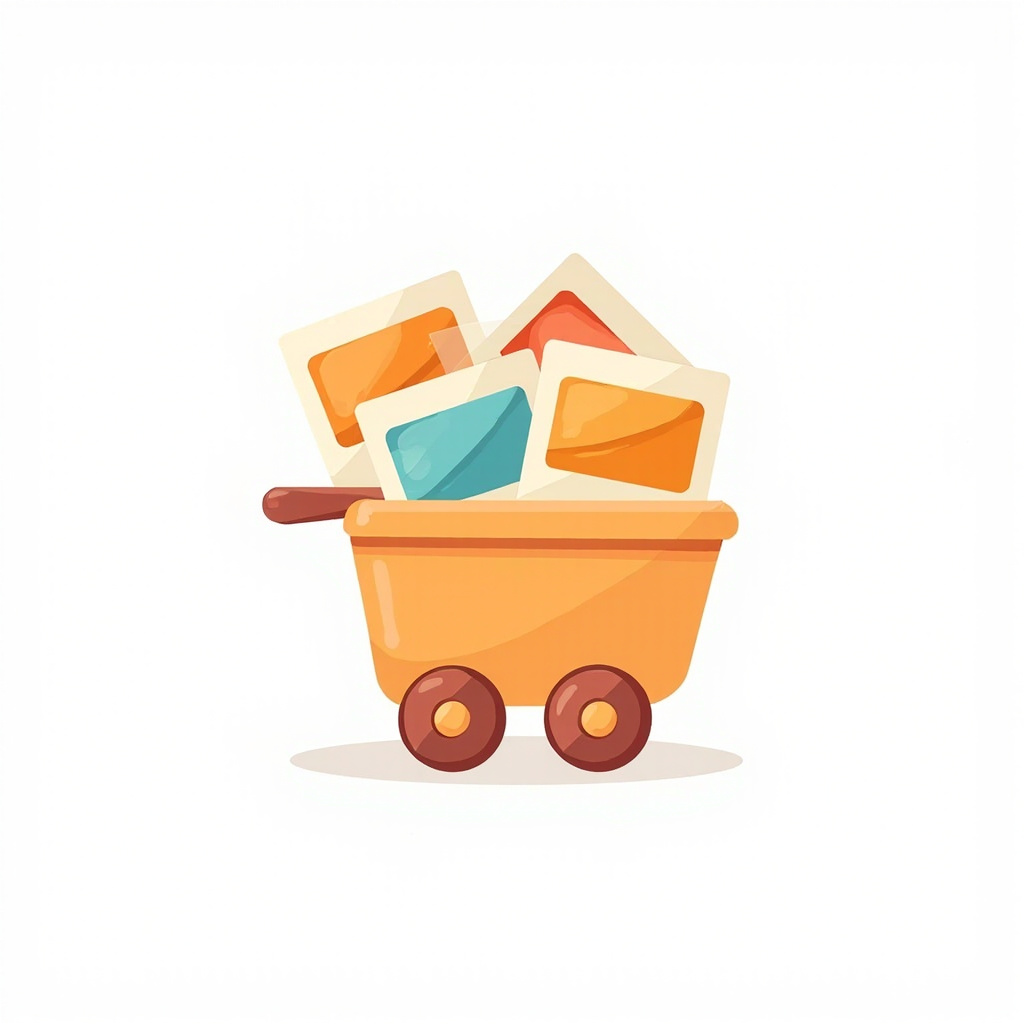
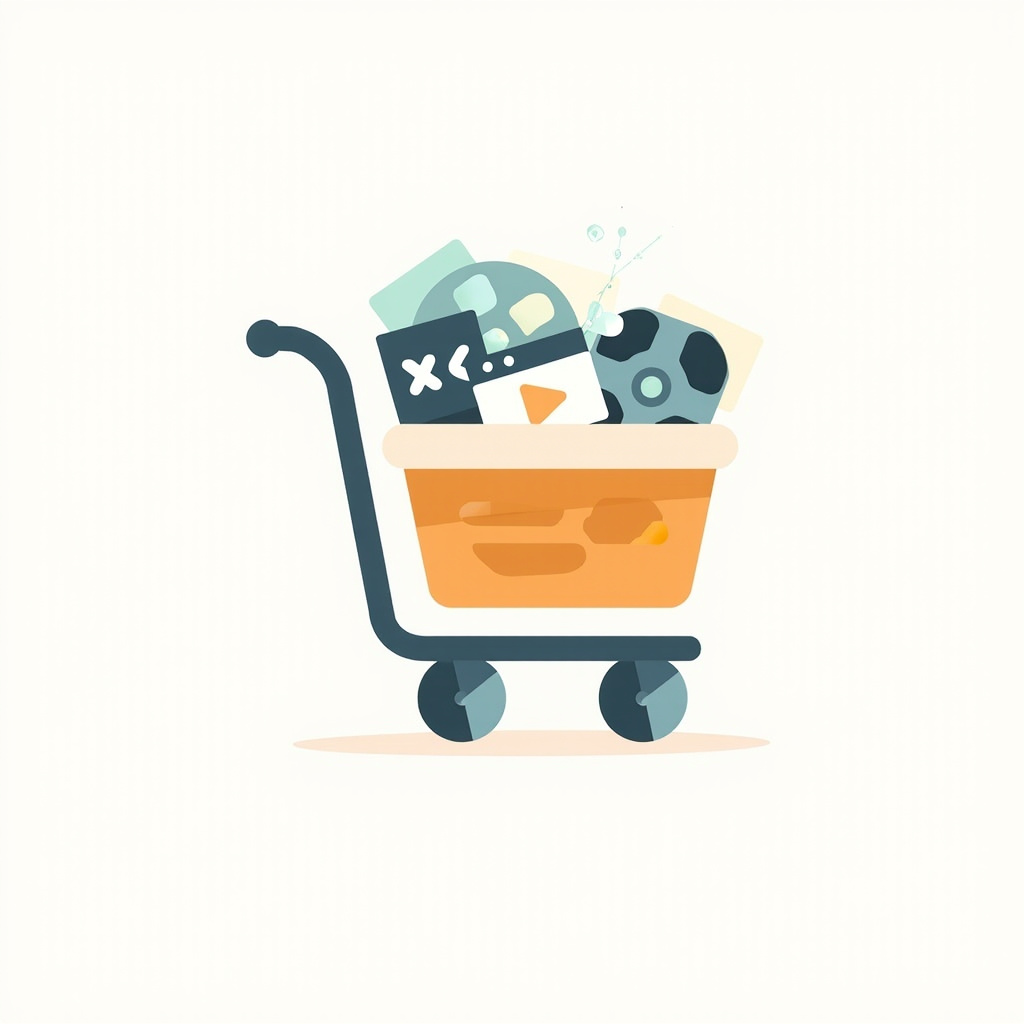
docs: refresh the PDF + use the new cover image + portability fixes
Per user request 2026-06-19: 'go through and have a look at
the markdown files in the docs directories and ensure that
they are up to do. There is a new coverpage image. Regenerate
the PDF and commit everything'.

CHANGES:

1. docs/00-cover.md:
   - "Caddy Image Gallery" -> "Caddy Media Gallery" (was the
     old project name; this PDF documents the renamed module)

2. docs/preamble.tex:
   - "Caddy Image Gallery docs PDF" -> "Caddy Media Gallery
     docs PDF"
   - REPLACED hardcoded font path
     `/home/synapticloop/projects/caddy_media_gallery/docs/fonts/`
     with relative path `./fonts/`. The build script runs
     pandoc from the docs directory, so a relative path is
     correct AND keeps the preamble portable (no
     user-specific absolute paths in the committed file -
     same privacy class as the earlier scrub).
   - Added a comment explaining the relative-path choice.

3. build-docs.sh:
   - Added docs/06-endplate.md to the SOURCES list (the back
     cover ASCII art was being generated but not included in
     the PDF output before).

4. docs/cover-image.jpg:
   - The user replaced the cover image with a smaller version
     (105KB JPEG, 1024x1024). Git shows this as a binary
     modification of the previous image (which was added in
     Phase 38).

5. caddy-media-gallery-book.pdf:
   - Regenerated. Was 30 pages, now 32 pages (added the
     endplate and the new cover image added 2 pages).
   - Includes the 6 source docs in order: 00-cover,
[…]

Changed region(s): [[0.2188, 0.2188, 0.75, 0.7812]]

diff --git a/docs/preamble.tex b/docs/preamble.tex
@@ -1,5 +1,10 @@
-% Preamble for the Caddy Image Gallery docs PDF.
+% Preamble for the Caddy Media Gallery docs PDF.
 % Included via pandoc's --include-in-header=preamble.tex
+%
+% Note: the font paths use `./fonts/` (relative to the docs
+% directory, since pandoc is run from there by build-docs.sh).
+% This keeps the preamble portable — no user-specific absolute
+% paths in the committed file.
 
 \usepackage{graphicx}
 \usepackage{xcolor}
@@ -9,7 +14,7 @@
 % JetBrains Mono for code blocks
 \usepackage{fontspec}
 \setmainfont{LibreBaskerville-VF}[
-  Path = /home/osmanj/projects/caddy_media_gallery/docs/fonts/,
+  Path = ./fonts/,
   Extension = .ttf,
   UprightFont    = LibreBaskerville-VF,
   BoldFont       = LibreBaskerville-VF,
@@ -17,7 +22,7 @@
   BoldItalicFont = LibreBaskerville-Italic-VF
 ]
 \setmonofont{JetBrainsMono-VF}[
-  Path = /home/osmanj/projects/caddy_media_gallery/docs/fonts/,
+  Path = ./fonts/,
   Extension = .ttf,
   UprightFont    = JetBrainsMono-VF,
   BoldFont       = JetBrainsMono-VF,

diff --git a/docs/00-cover.md b/docs/00-cover.md
@@ -7,7 +7,7 @@ geometry: margin=1in
 \begin{center}
 \vspace*{3cm}
 
-{\Huge\bfseries Caddy Image Gallery}\\[1em]
+{\Huge\bfseries Caddy Media Gallery}\\[1em]
 {\Large Operator Documentation}\\[3em]
 
 \includegraphics[width=0.6\textwidth]{cover-image.jpg}\\[2em]